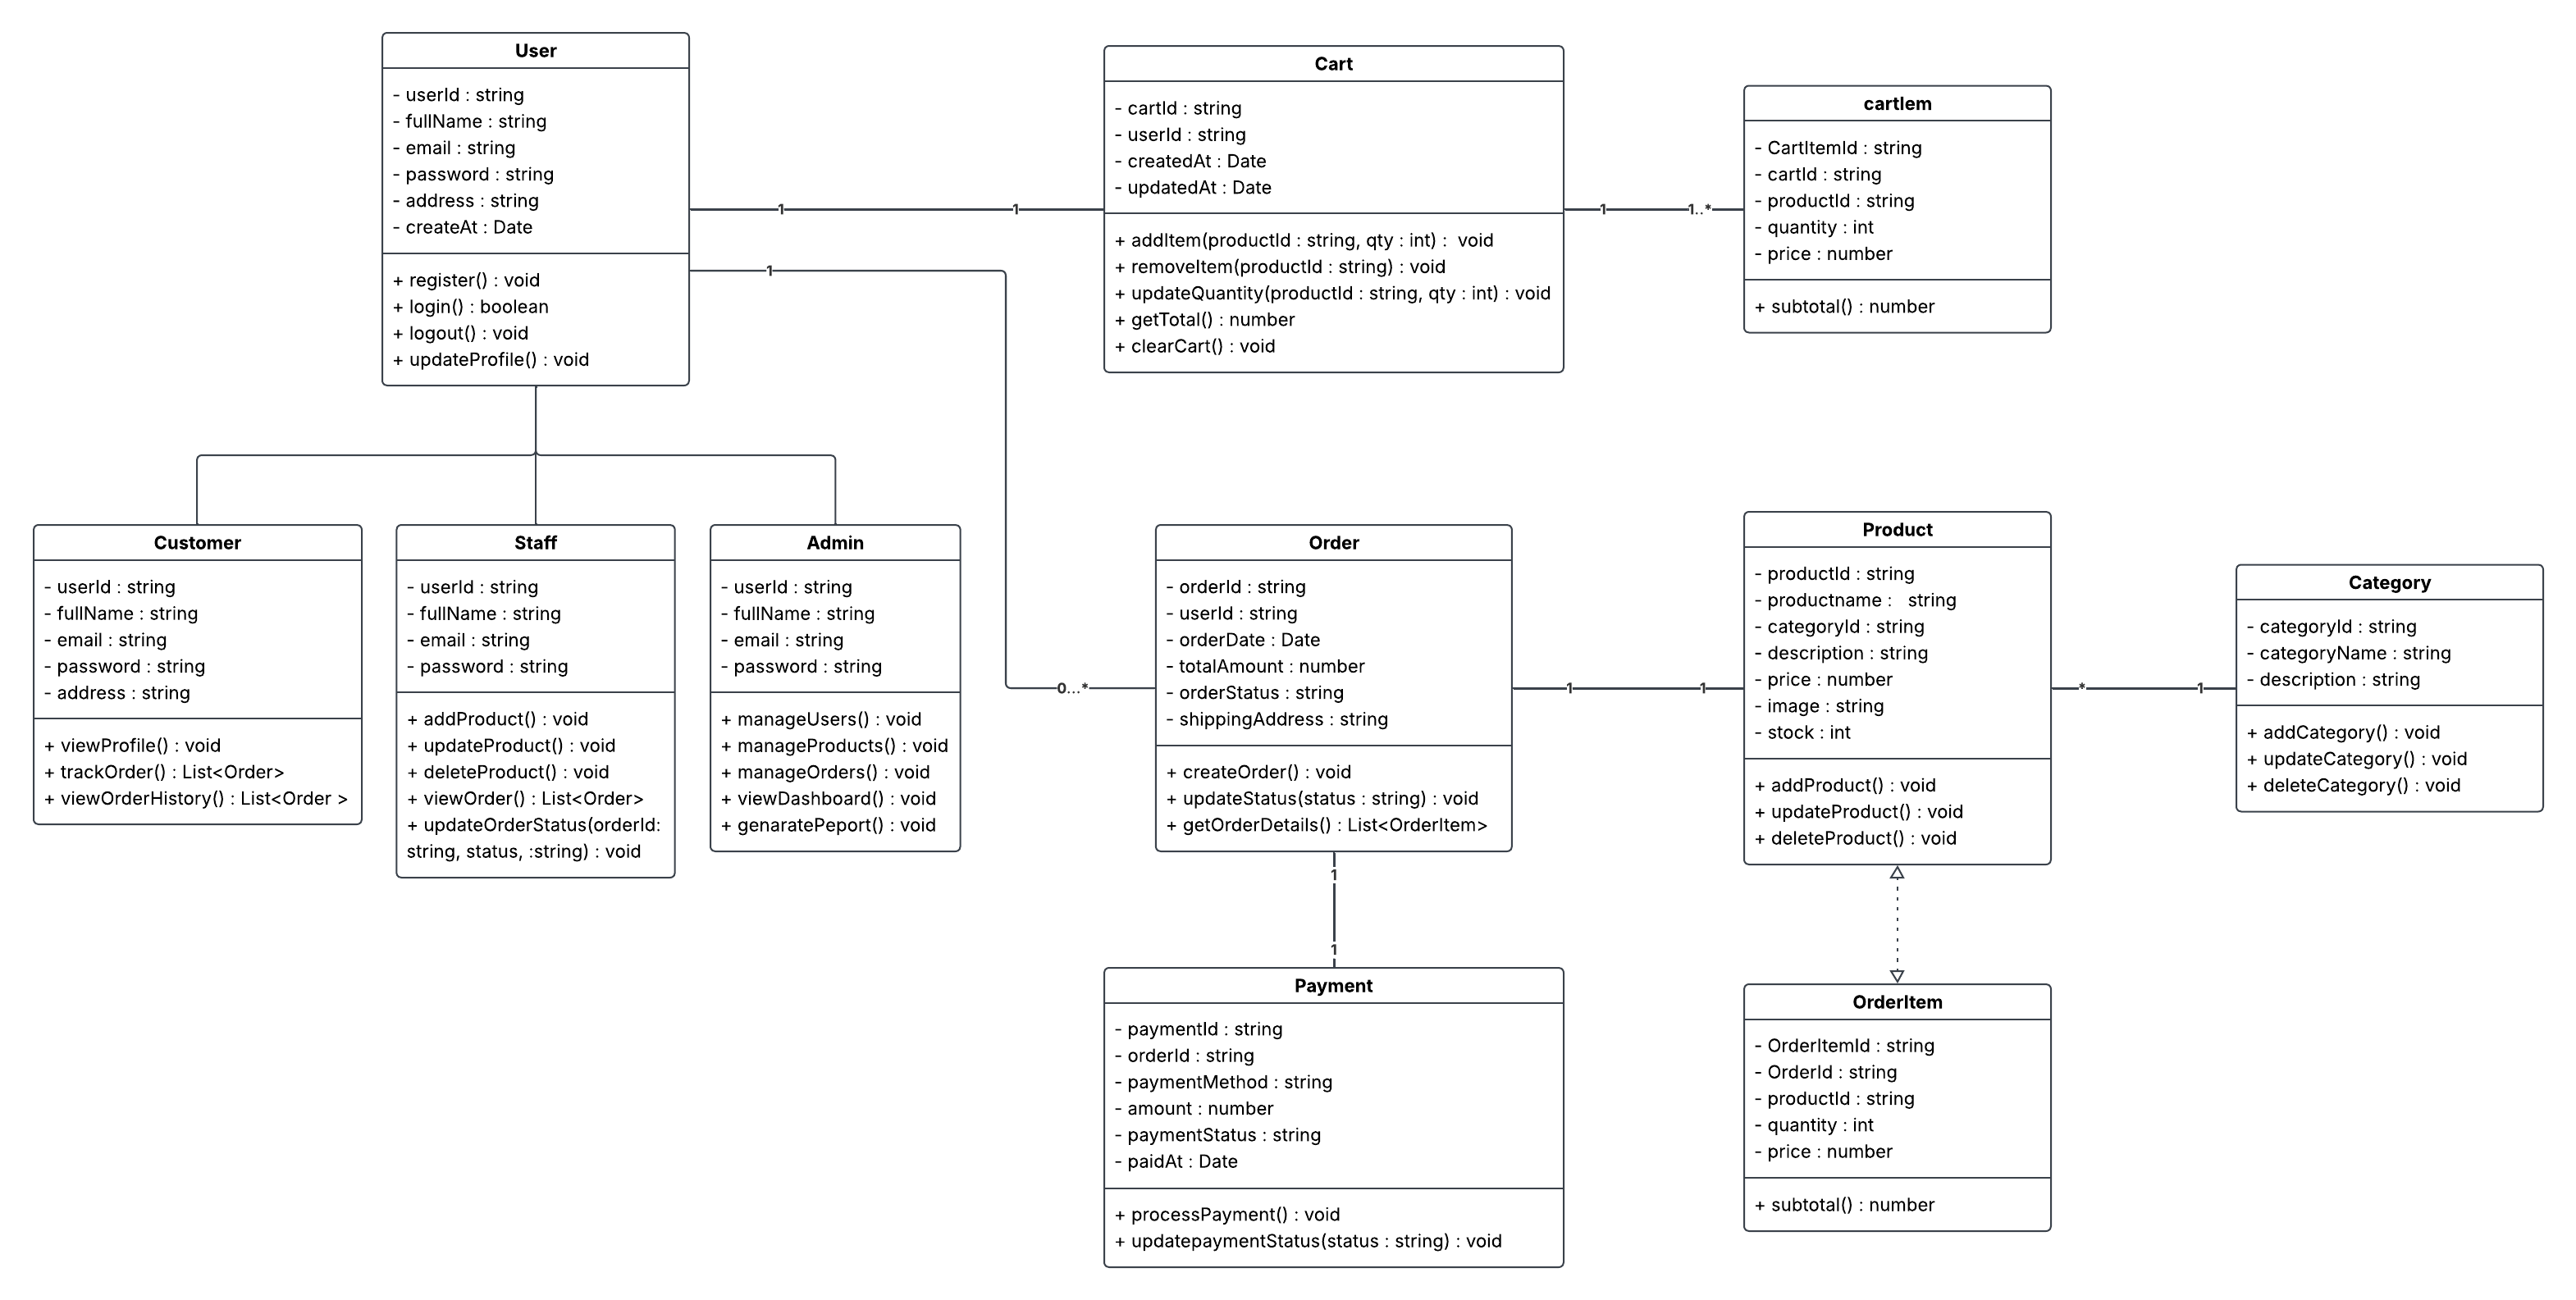
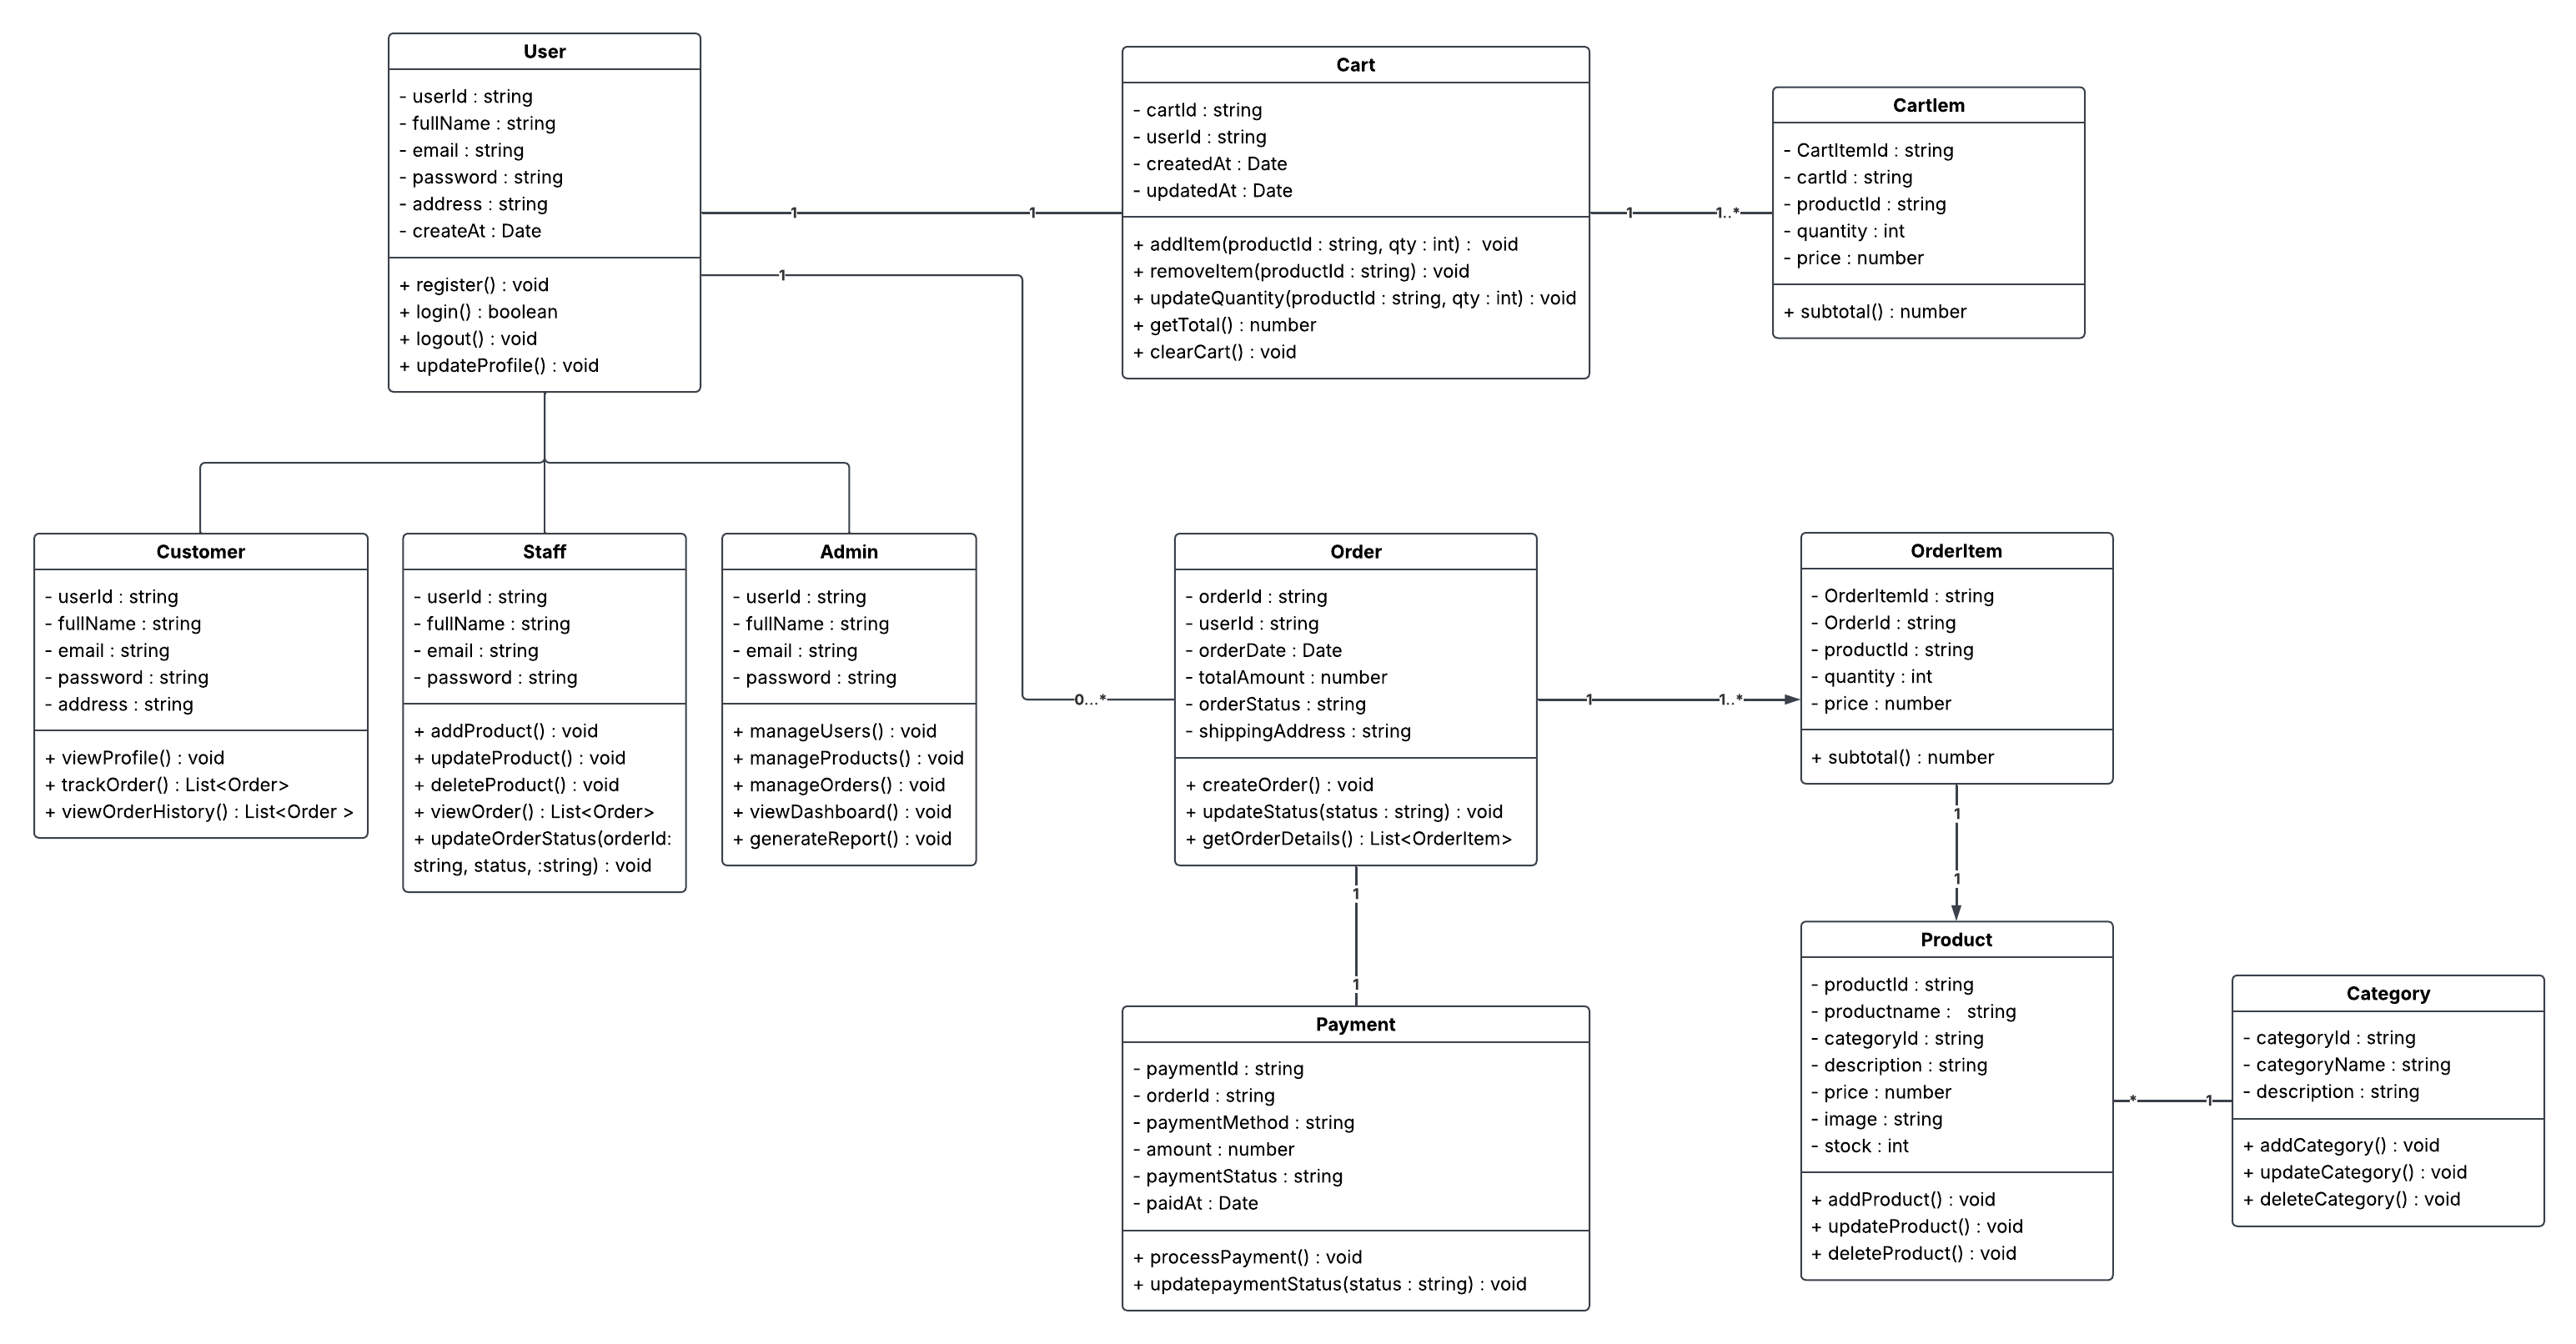
dd architecture details

diff --git a/app.js b/app.js
@@ -4,10 +4,10 @@
 
 // ── Remove inline TOC section from markdown (sidebar handles navigation) ──
 function removeToc(text) {
-    // Match a heading containing "สารบัญ" and remove it + all list items below it
-    // until the next heading (##) or horizontal rule (---)
+    // Match a "สารบัญ" heading block and remove it along with its list items
+    // Stops at the next heading (## or ---) using a non-greedy match
     return text.replace(
-        /#{1,3}[^\n]*สารบัญ[^\n]*\n((?:[\s\S]*?(?=\n#{1,3} |\n---)))/i,
+        /^#{1,3}[^\n]*สารบัญ[^\n]*\n[\s\S]*?(?=\n#{1,3}\s|\n---)/im,
         ''
     );
 }
@@ -15,11 +15,8 @@ function removeToc(text) {
 // ── Fix image paths for files inside /docs subfolder ──
 function fixImagePaths(text, filePath) {
     if (!filePath.startsWith('docs/')) return text;
-
-    return text
-        .replace(/\]\(usecase\.png\)/g,  '](docs/usecase.png)')
-        .replace(/\]\(class\.png\)/g,    '](docs/class.png)')
-        .replace(/\]\(sequence\.png\)/g, '](docs/sequence.png)');
+    // Prefix relative image paths with docs/ if not already prefixed
+    return text.replace(/!\[([^\]]*)\]\((?!https?:\/\/|docs\/)([^)]+)\)/g, '![$1](docs/$2)');
 }
 
 // ── Strip leading emoji/symbols from heading text for TOC ──
@@ -123,6 +120,40 @@ function loadFile(filePath, btnId, displayLabel) {
 
             // Build sidebar TOC from rendered headings
             buildToc(content);
+
+            // Render Mermaid diagrams dynamically
+            if (window.mermaid) {
+                const mermaidBlocks = content.querySelectorAll('pre code.language-mermaid');
+                if (mermaidBlocks.length > 0) {
+                    // Use timestamp to avoid ID collision when user re-loads the same file
+                    const runId = Date.now();
+                    const mermaidNodes = [];
+
+                    mermaidBlocks.forEach((block, index) => {
+                        const rawCode = block.textContent;
+                        const preElement = block.parentElement;
+
+                        const container = document.createElement('div');
+                        container.className = 'mermaid-container';
+
+                        const mermaidDiv = document.createElement('div');
+                        mermaidDiv.className = 'mermaid';
+                        mermaidDiv.id = `mermaid-${runId}-${index}`; // unique ID per render session
+                        mermaidDiv.textContent = rawCode;
+
+                        container.appendChild(mermaidDiv);
+                        preElement.replaceWith(container);
+                        mermaidNodes.push(mermaidDiv);
+                    });
+
+                    // Run after all DOM replacements are complete
+                    try {
+                        window.mermaid.run({ nodes: mermaidNodes });
+                    } catch (err) {
+                        console.error('Mermaid render error:', err);
+                    }
+                }
+            }
         })
         .catch((err) => {
             content.classList.remove('loading-msg');
@@ -157,6 +188,16 @@ function onMainScroll() {
 
 // ── Init ──
 window.addEventListener('DOMContentLoaded', () => {
+    // Initialize Mermaid config
+    if (window.mermaid) {
+        window.mermaid.initialize({
+            startOnLoad: false,
+            theme: 'neutral',
+            securityLevel: 'loose',
+            flowchart: { useMaxWidth: true, htmlLabels: true }
+        });
+    }
+
     // Make #main scrollable (not window) so sidebar stays fixed
     document.getElementById('main').addEventListener('scroll', onMainScroll);
 

diff --git a/style.css b/style.css
@@ -334,6 +334,24 @@ body {
 }
 #content img:hover { box-shadow: 0 4px 16px rgba(0,0,0,0.12); }
 
+/* Mermaid Diagrams */
+.mermaid-container {
+    background: #ffffff;
+    border: 1px solid #e5e7eb;
+    border-radius: 10px;
+    padding: 24px;
+    margin: 18px 0;
+    display: flex;
+    justify-content: center;
+    overflow-x: auto;
+    box-shadow: 0 2px 8px rgba(0,0,0,0.04);
+}
+.mermaid {
+    width: 100%;
+    display: flex;
+    justify-content: center;
+}
+
 /* Checkbox lists */
 #content input[type="checkbox"] { margin-right: 6px; accent-color: #2563eb; }
 

diff --git a/index.html b/index.html
@@ -14,6 +14,9 @@
 
     <!-- Markdown parser -->
     <script src="https://cdn.jsdelivr.net/npm/marked/marked.min.js"></script>
+
+    <!-- Mermaid parser -->
+    <script src="https://cdn.jsdelivr.net/npm/mermaid/dist/mermaid.min.js"></script>
 </head>
 <body>
 
@@ -38,7 +41,7 @@
             </button>
 
             <button class="file-btn" id="btn-analysis"
-                onclick="loadFile('docs/analysis-design.md', 'btn-analysis', 'docs / analysis-design.md')">
+                onclick="loadFile('docs/analysis-design.md', 'btn-analysis', 'docs/analysis-design.md')">
                 📊 Analysis &amp; Design
             </button>
         </div>

diff --git a/docs/analysis-design.md b/docs/analysis-design.md
@@ -48,7 +48,7 @@
 - **Incident Response**: การตอบสนองและแก้ไขปัญหาตามระดับ Severity (1-3)
 
 ### 2.3 Use Case Diagram
-![Use Case Diagram](usecase.png)
+![Use Case Diagram](use.png)
 
 ---
 
@@ -101,6 +101,32 @@ graph TD
     B --> C
     C --> D
 ```
+
+### 4.1 Frontend Architecture (ส่วนที่ผู้ใช้งานโต้ตอบกับระบบ)
+- **การนำเสนอหน้าเว็บ**: แสดงผลเว็บแอปพลิเคชันรองรับการทำงานของ Customer, Staff และ Admin
+- **ฟังก์ชันหลัก**: ระบบสมัครสมาชิก / Login, แสดงสินค้าเสื้อผ้ามือสอง, จัดการตะกร้าสินค้า (Cart), ดำเนินการสั่งซื้อ (Mockup) และหน้าแดชบอร์ดจัดการระบบ
+- **รูปแบบสถาปัตยกรรม**: Component-Based Architecture / Single Page Application (SPA)
+- **เทคโนโลยีหลัก**: Next.js (React Framework)
+- **สิ่งที่พิจารณาเป็นพิเศษ**: 
+  - *UX/UI*: รองรับ Responsive Design และ Mobile First เนื่องจากผู้ซื้อเสื้อผ้าส่วนใหญ่ใช้งานผ่านโทรศัพท์มือถือ
+  - *Security*: ป้องกันการดึงข้อมูลส่วนตัว และใช้ JWT / Cookies ในการเก็บเซสชัน
+  - *Scalability*: เตรียมความพร้อมใช้งาน CDN และ Caching ในการโหลดรูปภาพสินค้าที่มีจำนวนมาก
+
+### 4.2 Backend Architecture (ส่วนประมวลผลหลักของระบบ)
+- **การจัดการ Business Logic**: การคำนวณยอดชำระ, อัปเดตสถานะการจองสต็อกสินค้า (เนื่องจากเสื้อผ้ามือสองมีเพียง 1 ชิ้นต่อชิ้น), ตรวจสอบสิทธิ์การทำงาน
+- **ฟังก์ชันหลัก**: จัดการบัญชีผู้ใช้ (Auth Service), จัดการรายการสินค้า (Product Service), จัดการการซื้อขาย (Order Service), และการตรวจสอบชำระเงิน (Payment Service)
+- **รูปแบบสถาปัตยกรรม**: Monolithic Architecture ในเฟสเริ่มต้น เพื่อความรวดเร็วในการพัฒนาต้นแบบและมีความคล่องตัวสูง
+- **เทคโนโลยีหลัก**: Node.js + Express
+- **สิ่งที่พิจารณาเป็นพิเศษ**:
+  - *API Architecture*: ออกแบบในรูปแบบ REST API เพื่อรับส่งข้อมูล JSON ระหว่างหน้าเว็บและเซิร์ฟเวอร์
+  - *DevOps*: ใช้ GitHub Actions ทำระบบ CI/CD และควบคุมเวอร์ชันผ่าน Git / GitHub
+
+### 4.3 Database Architecture (ระบบจัดเก็บข้อมูล)
+- **การจัดการข้อมูล**: เก็บข้อมูลผู้ใช้ (Users), สินค้าเสื้อผ้ามือสอง (Products), คำสั่งซื้อ (Orders), และประวัติการทำรายการ (Payments)
+- **รูปแบบสถาปัตยกรรม**: จำลองรูปแบบฐานข้อมูลด้วย Local Storage โดยเซฟในรูปแบบ JSON Object เพื่อให้รองรับการพัฒนารวดเร็ว (Rapid Prototyping)
+- **เทคโนโลยีหลัก**: Local Storage (และเตรียมย้ายไปใช้ Relational Database เช่น MySQL/PostgreSQL ในการผลิตจริง)
+- **สิ่งที่พิจารณาเป็นพิเศษ**:
+  - *Database Design*: ทำ Normalization เพื่อลดความซ้ำซ้อนของข้อมูล และออกแบบ Backup & Recovery เผื่อกรณีข้อมูลในเครื่องผู้ใช้สูญหาย
 
 ---
 
@@ -177,13 +203,20 @@ erDiagram
 
 ## 7. หลักการออกแบบที่นำมาใช้ (Design Principles)
 
-- **Separation of Concerns**: แยกส่วน Frontend (Next.js) และ Backend (Node.js) อย่างชัดเจน
-- **Single Responsibility**: แบ่งหน้าที่ของผู้ดูแลระบบ, พนักงาน, และลูกค้า เพื่อจัดการข้อมูลอย่างเป็นระบบและลดความซ้ำซ้อน
-- **Rapid Prototyping (ตาม SDLC)**: เลือกใช้ Local Storage แทนการตั้งค่าฐานข้อมูลจริง เพื่อความรวดเร็วในการพัฒนาต้นแบบและสาธิตการทำงานตามกรอบเวลา
+ตามที่ได้ศึกษาในวิชา CSI204 ระบบ Re-wear ได้นำหลักการออกแบบสถาปัตยกรรมซอฟต์แวร์ (Software Architecture Design Principles) มาประยุกต์ใช้งานดังนี้:
+
+- **3.1 Separation of Concerns (SoC)**: แยกส่วนของระบบออกเป็นเลเยอร์อย่างชัดเจน ได้แก่ Frontend (แสดงผล UI ด้วย Next.js), Backend (ประมวลผลคำขอด้วย Node.js) และ Database (จัดเก็บข้อมูล) ช่วยให้ง่ายต่อการดูแลรักษา
+- **3.2 Single Responsibility Principle (SRP)**: ออกแบบคลาสและฟังก์ชันให้มีหน้าที่รับผิดชอบเพียงอย่างเดียว เช่น แยกคลาสจัดการบัญชีผู้ใช้งาน (User Module) ออกจากโมดูลระบบสินค้า (Product Module) และระบบสั่งซื้อ (Order Module)
+- **3.3 Modularity**: การแบ่งระบบเป็นโมดูลย่อยที่มีอิสระต่อกัน (เช่น User Service, Product Service, Order Service) ช่วยให้ทีมพัฒนาสามารถทดสอบ ปรับปรุง และแก้ไขโค้ดในส่วนอื่นได้โดยไม่กระทบต่อระบบรวมทั้งหมด
+- **3.4 Loose Coupling**: ลดการยึดติดกันระหว่างโมดูล โดยให้ Frontend และ Backend สื่อสารกันผ่าน REST API แทนการเชื่อมต่อตรง ทำให้สามารถปรับปรุงระบบหลังบ้านหรือสลับไปใช้ฐานข้อมูลระบบอื่นได้ง่ายขึ้นในอนาคต
+- **3.5 High Cohesion**: จัดกลุ่มของโค้ดและข้อมูลที่มีความสัมพันธ์ใกล้ชิดกันให้อยู่ในโมดูลเดียวกัน เช่น จัดการโครงสร้างโฟลเดอร์สำหรับเอกสารวิเคราะห์ระบบให้อยู่ภายใต้โฟลเดอร์ `docs/` ทั้งหมด และหน้าหลังบ้านของแอดมินไว้ใน Dashboard ส่วนกลาง
+- **3.6 Scalability**: วางสถาปัตยกรรมระบบให้พร้อมรองรับการเติบโตของผู้ใช้และการขยายทรัพยากร ทั้งในระดับแนวตั้ง (Vertical: อัปเกรดเครื่องเซิร์ฟเวอร์) และแนวราบ (Horizontal: การใช้ Load Balancer และการแยก Service ในอนาคตหากฐานผู้ซื้อเติบโต)
+- **3.7 Reusability**: เขียนโค้ดให้สามารถนำกลับมาใช้ซ้ำได้ เช่น การทำ Utility Functions สำหรับจัดรูปแบบราคา (บาท), ฟังก์ชันแปลงวันที่ และการนำ Component ต่าง ๆ เช่น การ์ดรายการสินค้า และปุ่มกดกลับมาเรียกใช้ในหลายหน้าเว็บ
+- **3.8 Security**: ออกแบบระบบความปลอดภัยตั้งแต่ขั้นตอนเริ่มต้น (Secure by Design) มีมาตรการจำกัดสิทธิ์การเข้าถึงข้อมูลตามบทบาทผู้ใช้ (Authentication/Authorization) และวางแผนเข้ารหัสผ่านผู้ใช้
+- **3.9 Flexibility**: สถาปัตยกรรมสามารถปรับเปลี่ยนหรือเพิ่มฟีเจอร์ใหม่ได้ยืดหยุ่น เช่น การเปลี่ยนจาก Monolithic ไปสู่ Microservices ในระยะยาว หรือการเพิ่มช่องทางชำระเงินใหม่ๆ (เช่น พร้อมเพย์, บัตรเครดิต) เข้าไปในระบบโดยง่าย
 
 ---
 
 ## 8. สรุป (Conclusion)
 
-> 📌 **Note:** เอกสารนี้แสดงการวิเคราะห์และออกแบบระบบเบื้องต้น ซึ่งจะถูกนำไปใช้เป็นแนวทางในการพัฒนา
-ระบบจริงในขั้นตอนถัดไป
+> 📌 **Note:** เอกสารนี้แสดงการวิเคราะห์และออกแบบระบบเบื้องต้น ซึ่งจะถูกนำไปใช้เป็นแนวทางในการพัฒนาระบบจริงในขั้นตอนถัดไป

diff --git a/README.md b/README.md
@@ -120,7 +120,8 @@ project-root/
 
 ## 🔗 ลิงก์ที่เกี่ยวข้อง
 
-- 🌐 GitHub Pages: https://somchai-demo.github.io/csi204-project/ (รอเผยแพร่จริง)
+- 🌐 GitHub Repository: [https://github.com/waranon-sop/csi204-project](https://github.com/waranon-sop/csi204-project)
+- 🌐 GitHub Pages (Web): [https://waranon-sop.github.io/csi204-project/](https://waranon-sop.github.io/csi204-project/)
 - 📄 เอกสาร Analysis & Design: [docs/analysis-design.md](docs/analysis-design.md)
 
 ---